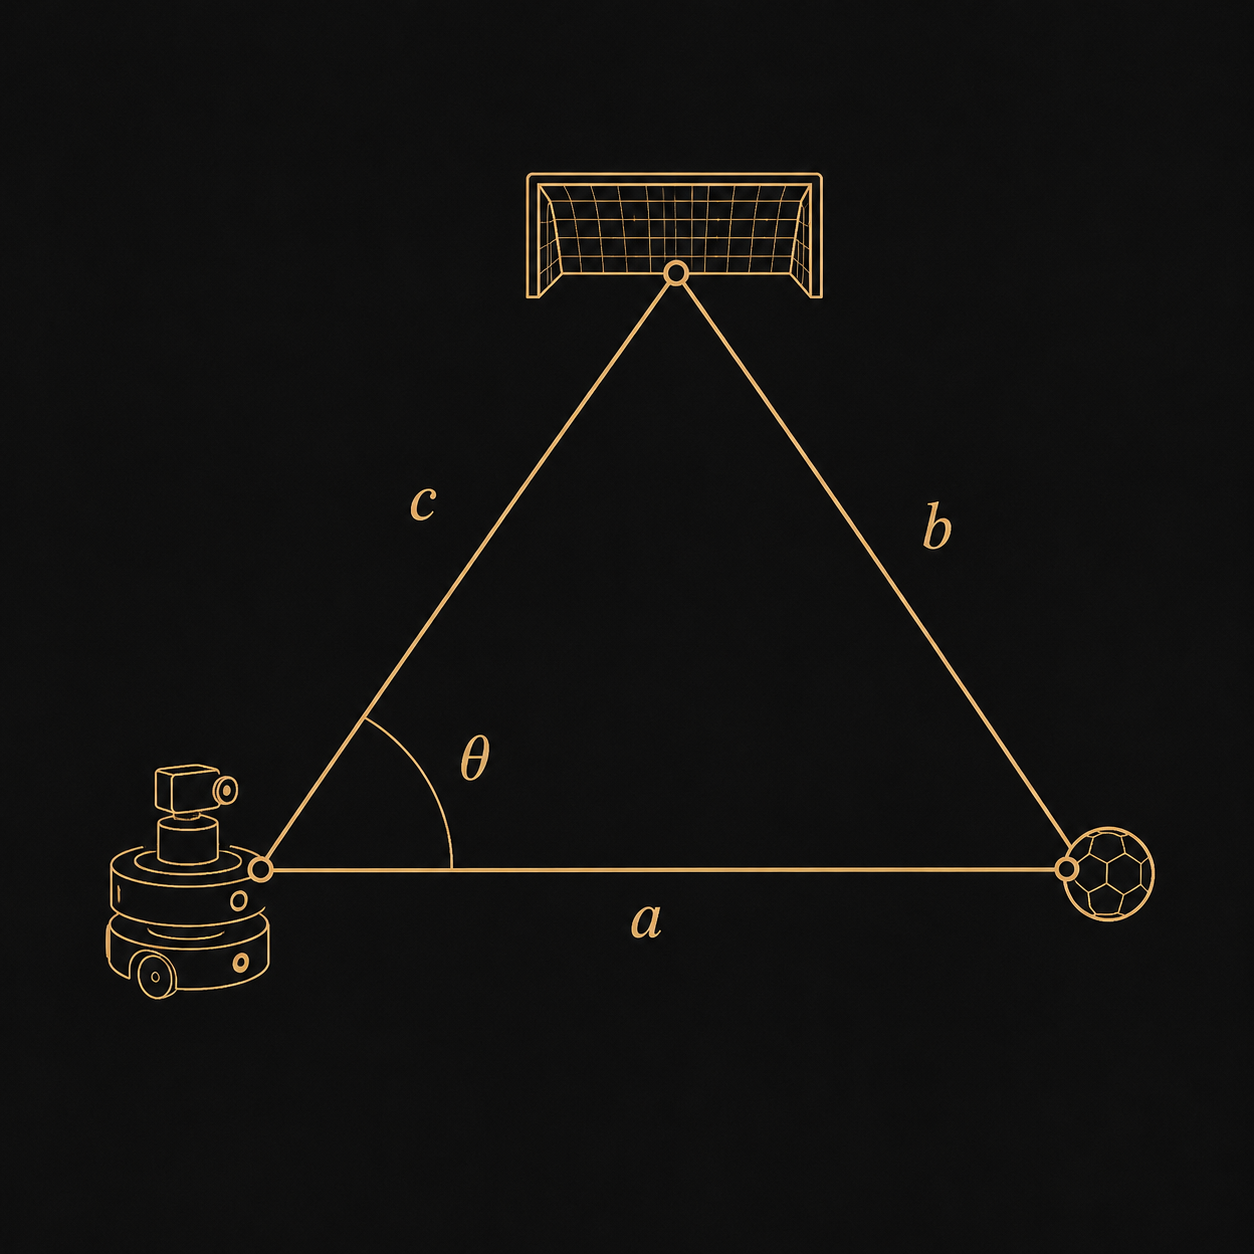
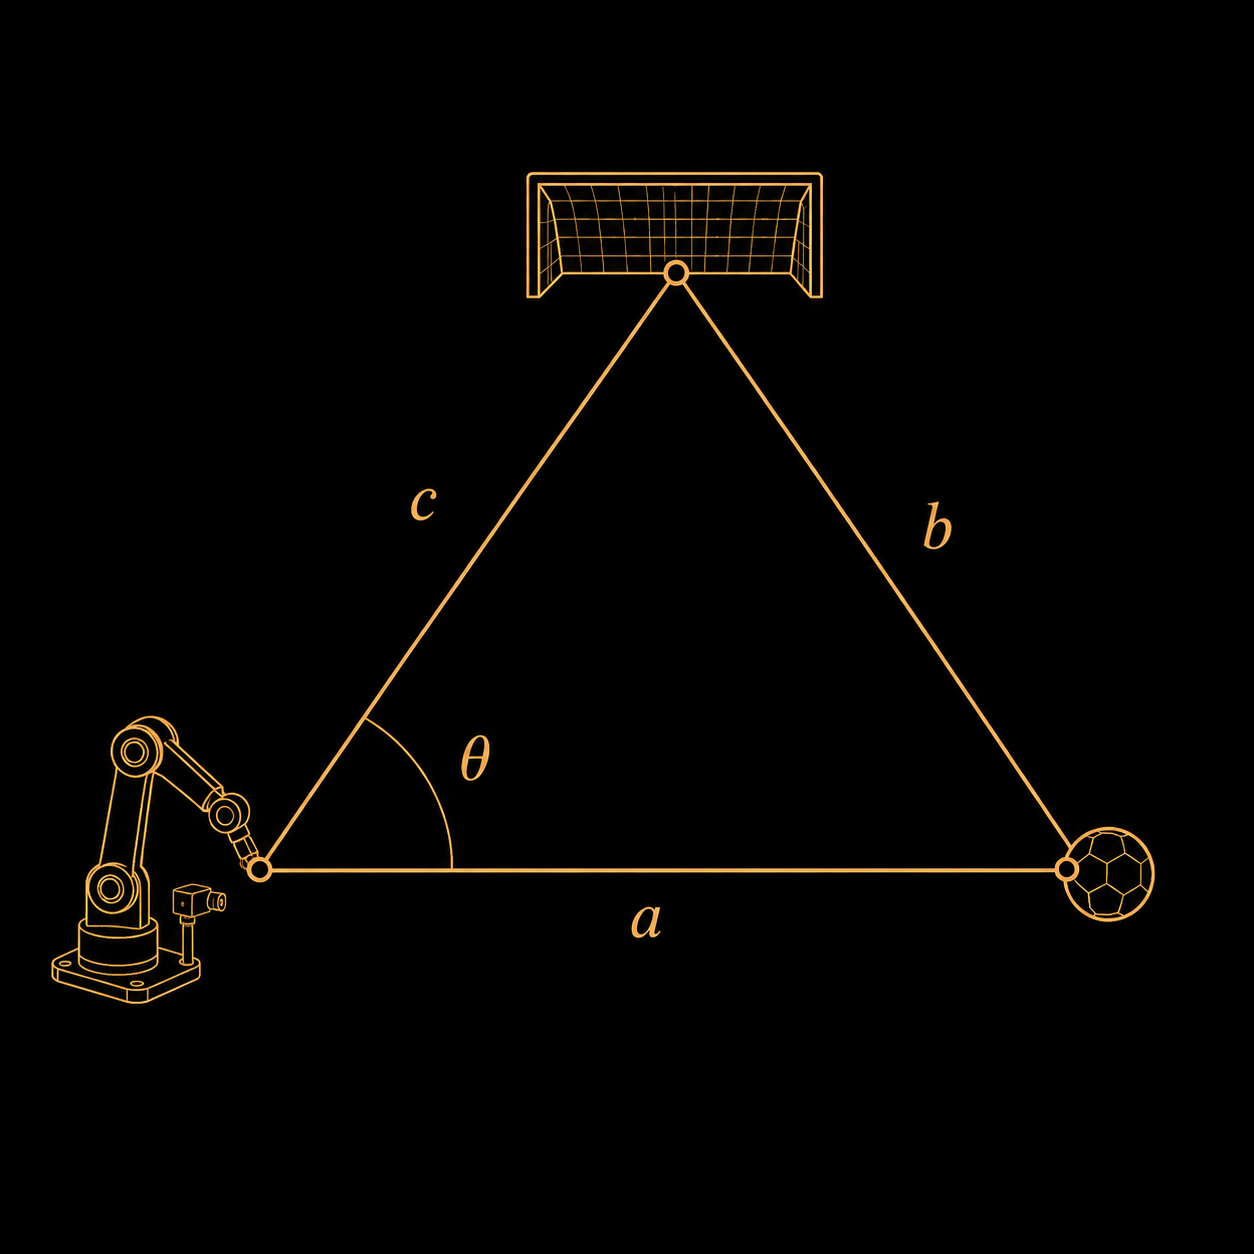
Refactor mobile layout for Ball Shooting Manipulator project: simplify project feature header styles, add mobile subcard media for improved presentation, and update image references for consistency.

diff --git a/index.html b/index.html
@@ -137,9 +137,6 @@
                   Two very different tasks for the same small robotic arm: solving a physical maze by sight, and playing a simplified game of football. Both come down to the same core loop, perceive the workspace, plan a sequence of moves, and execute them precisely enough that small errors do not compound.
                 </p>
               </div>
-              <figure class="mobile-hero-figure">
-                <img src="images/Ball_shoot_foreground.png" alt="The robotic arm positioned behind the ball, aiming toward the goal, from the Ball Shooting Manipulator project" loading="lazy" />
-              </figure>
 
               <div class="mobile-subgrid mobile-subgrid--two">
                 <article class="mobile-subcard mobile-subcard-pending">
@@ -153,6 +150,9 @@
                 <article class="mobile-subcard">
                   <span class="project-tag">Vision and Kinematics</span>
                   <h4>Ball Shooting Manipulator</h4>
+                  <figure class="mobile-subcard-media">
+                    <img src="images/Ball_shoot_foreground.png" alt="The robotic arm positioned behind the ball, aiming toward the goal, from the Ball Shooting Manipulator project" loading="lazy" />
+                  </figure>
                   <p>
                     A camera guided robotic arm that finds a ball and a goal, then kicks the ball in. A Pixy camera locates the ball and the goal using color and pixel count based distance estimates, and inverse kinematics places a 3D printed leg behind the ball for a timed kick toward the goal.
                   </p>

diff --git a/assets/css/refined.css b/assets/css/refined.css
@@ -984,8 +984,7 @@ a:focus-visible {
   position: relative;
 }
 
-.project-mobile .project-feature-header,
-.project-arms .project-feature-header {
+.project-mobile .project-feature-header {
   max-width: 60ch;
   padding-right: 380px;
 }
@@ -1010,8 +1009,7 @@ a:focus-visible {
 }
 
 @media (max-width: 760px) {
-  .project-mobile .project-feature-header,
-  .project-arms .project-feature-header {
+  .project-mobile .project-feature-header {
     padding-right: 0;
   }
 
@@ -1093,6 +1091,21 @@ a:focus-visible {
 .mobile-subcard-pending {
   border-style: dashed;
   opacity: 0.7;
+}
+
+.mobile-subcard-media {
+  margin: 0;
+  aspect-ratio: 16 / 10;
+  overflow: hidden;
+  border: 1px solid rgba(var(--card-accent-rgb), 0.16);
+  border-radius: var(--radius-sm);
+}
+
+.mobile-subcard-media img {
+  display: block;
+  width: 100%;
+  height: 100%;
+  object-fit: cover;
 }
 
 @media (max-width: 900px) {
